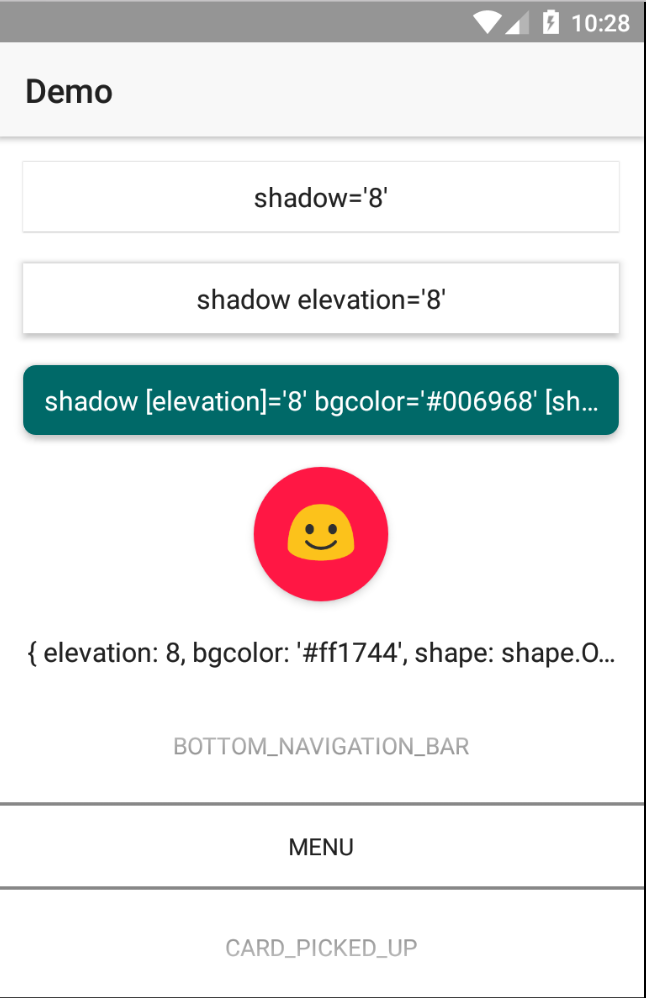
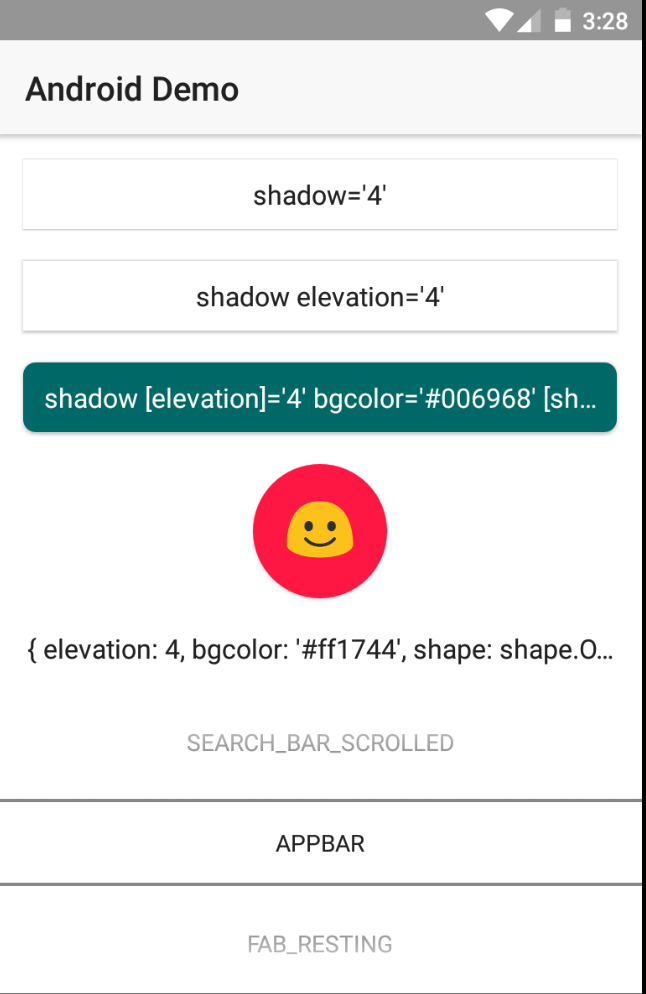
separate platform templates for demo

diff --git a/demo/app/home/home.component.ios.html b/demo/app/home/home.component.ios.html
@@ -1,14 +1,15 @@
 <ActionBar class="action-bar">
-  <Label class="action-bar-title" text="Demo"></Label>
+  <Label class="action-bar-title" text="iOS Demo"></Label>
 </ActionBar>
 
 <GridLayout rows="*, auto" columns="*" class="page">
   <StackLayout row="0" col="0">
     <Label *ngIf="show" class="h3 m-15 p-10 ex1" [text]="'shadow=\''+elevation+'\''" [shadow]="elevation"></Label>
     <Label *ngIf="show" class="h3 m-15 p-10 ex2" [text]="'shadow elevation=\''+elevation+'\''" shadow [elevation]="elevation"></Label>
-    <Label *ngIf="show" class="h3 m-15 p-10 ex3" [text]="'shadow [elevation]=\''+elevation+'\' bgcolor=\'#006968\' [shape]=\'shape.RECTANGLE\' corderRadius=15'" shadow [elevation]="elevation" bgcolor="#006968" [shape]="shape.RECTANGLE" cornerRadius="15"></Label>
-    <Label *ngIf="show" class="h1 m-15 p-15 ex4" text="☺" [shadow]="androidData"></Label>
-    <Label *ngIf="show" class="h3 m-15 lbl5" [text]="'{ elevation: '+elevation+', bgcolor: \'#ff1744\', shape: shape.OVAL }'"></Label>
+    <Label *ngIf="show" class="h3 m-15 p-10 ex3" [text]="'shadow [elevation]=\''+elevation+'\' [shadowOffset]=\'3\''" shadow [elevation]="elevation" [shadowOffset]="3"></Label>
+    <StackLayout class="m-15 p-15" [shadow]="2">
+      <Label *ngIf="show" class="h1 ex4" text="☺"></Label>
+    </StackLayout>
   </StackLayout>
   <ListPicker row="1" col="0" [items]="stdElevations" selectedIndex="2" (selectedIndexChange)="setElevation($event)" class="p-15"></ListPicker>
 </GridLayout>

diff --git a/demo/app/home/home.component.android.html b/demo/app/home/home.component.android.html
@@ -1,0 +1,14 @@
+<ActionBar class="action-bar">
+  <Label class="action-bar-title" text="Android Demo"></Label>
+</ActionBar>
+
+<GridLayout rows="*, auto" columns="*" class="page">
+  <StackLayout row="0" col="0">
+    <Label *ngIf="show" class="h3 m-15 p-10 ex1" [text]="'shadow=\''+elevation+'\''" [shadow]="elevation"></Label>
+    <Label *ngIf="show" class="h3 m-15 p-10 ex2" [text]="'shadow elevation=\''+elevation+'\''" shadow [elevation]="elevation"></Label>
+    <Label *ngIf="show" class="h3 m-15 p-10 ex3" [text]="'shadow [elevation]=\''+elevation+'\' bgcolor=\'#006968\' [shape]=\'shape.RECTANGLE\' corderRadius=15'" shadow [elevation]="elevation" bgcolor="#006968" [shape]="shape.RECTANGLE" cornerRadius="15"></Label>
+    <Label *ngIf="show" class="h1 m-15 p-15 ex4" text="☺" [shadow]="androidData"></Label>
+    <Label *ngIf="show" class="h3 m-15 lbl5" [text]="'{ elevation: '+elevation+', bgcolor: \'#ff1744\', shape: shape.OVAL }'"></Label>
+  </StackLayout>
+  <ListPicker row="1" col="0" [items]="stdElevations" selectedIndex="2" (selectedIndexChange)="setElevation($event)" class="p-15"></ListPicker>
+</GridLayout>

diff --git a/src/angular/ng-shadow.directive.d.ts b/src/angular/ng-shadow.directive.d.ts
@@ -1,8 +1,8 @@
-import { AfterViewInit, ElementRef, OnChanges, SimpleChanges } from '@angular/core';
+import { ElementRef, OnChanges, OnInit, SimpleChanges } from '@angular/core';
 import { AndroidData } from '../common/android-data.model';
 import { IOSData } from '../common/ios-data.model';
 import { Shape } from '../common/shape.enum';
-export declare class NativeShadowDirective implements AfterViewInit, OnChanges {
+export declare class NativeShadowDirective implements OnInit, OnChanges {
     private el;
     shadow: string | AndroidData | IOSData;
     elevation?: number | string;
@@ -16,7 +16,7 @@ export declare class NativeShadowDirective implements AfterViewInit, OnChanges {
     shadowRadius?: number | string;
     private loaded;
     constructor(el: ElementRef);
-    ngAfterViewInit(): void;
+    ngOnInit(): void;
     onLoaded(): void;
     ngOnChanges(changes: SimpleChanges): void;
     private applyShadow();
